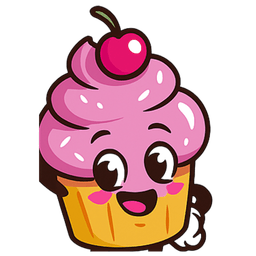
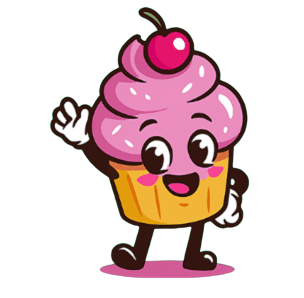
Mostrar el mapa del local en el catálogo y en el checkout
El catálogo (con o sin filtro de categoría) suma la misma sección de
retiro que la home. En el checkout, debajo de la elección entre envío y
retiro, aparece una versión compacta del mapa con la dirección y "Cómo
llegar", para decidir con la ubicación a la vista.

diff --git a/src/components/shop/pickup-map.tsx b/src/components/shop/pickup-map.tsx
@@ -17,32 +17,37 @@ function mapUrls() {
   };
 }
 
+// Enlace estándar de Google Maps (sin clave): abre el recorrido desde donde
+// esté la persona. Usa la dirección de Configuración.
+function directionsUrl(address: string) {
+  return `https://www.google.com/maps/dir/?api=1&destination=${encodeURIComponent(address)}`;
+}
+
+function MapFrame({ className }: { className: string }) {
+  return (
+    <div className={`relative overflow-hidden bg-sand ${className}`}>
+      <iframe
+        title="Mapa con la ubicación del local de Dulces Juliana"
+        src={mapUrls().embed}
+        loading="lazy"
+        referrerPolicy="no-referrer-when-downgrade"
+        className="absolute inset-0 h-full w-full border-0 [filter:saturate(0.85)_sepia(0.12)]"
+      />
+    </div>
+  );
+}
+
 export function PickupMap({
   settings,
 }: {
   settings: { shippingCost: number; freeShippingFrom: number; pickupAddress: string };
 }) {
-  const urls = mapUrls();
-  // Enlace estándar de Google Maps (sin clave): abre el recorrido desde donde
-  // esté la persona. Usa la dirección de Configuración.
-  const directions = `https://www.google.com/maps/dir/?api=1&destination=${encodeURIComponent(
-    settings.pickupAddress,
-  )}`;
-
   return (
     <section
       aria-labelledby="retiro-titulo"
       className="grid items-stretch gap-5 md:grid-cols-[1.4fr_1fr]"
     >
-      <div className="relative h-72 overflow-hidden rounded-card bg-sand shadow-soft md:h-auto md:min-h-[360px]">
-        <iframe
-          title="Mapa con la ubicación del local de Dulces Juliana"
-          src={urls.embed}
-          loading="lazy"
-          referrerPolicy="no-referrer-when-downgrade"
-          className="absolute inset-0 h-full w-full border-0 [filter:saturate(0.85)_sepia(0.12)]"
-        />
-      </div>
+      <MapFrame className="h-72 rounded-card shadow-soft md:h-auto md:min-h-[360px]" />
 
       <div className="flex flex-col rounded-card bg-surface p-6 sm:p-7">
         <span className={`${badgeClass("blush")} w-max`}>Retiro sin cargo</span>
@@ -75,7 +80,7 @@ export function PickupMap({
 
         <div className="mt-6 flex flex-wrap items-center gap-3 md:mt-auto md:pt-6">
           <a
-            href={directions}
+            href={directionsUrl(settings.pickupAddress)}
             target="_blank"
             rel="noopener noreferrer"
             className={buttonClass("primary", "md")}
@@ -83,7 +88,7 @@ export function PickupMap({
             Cómo llegar
           </a>
           <a
-            href={urls.full}
+            href={mapUrls().full}
             target="_blank"
             rel="noopener noreferrer"
             className="text-sm text-berry hover:underline"
@@ -93,5 +98,30 @@ export function PickupMap({
         </div>
       </div>
     </section>
+  );
+}
+
+// Versión chica para el checkout, debajo de la elección entre envío y retiro.
+export function PickupMapCompact({ pickupAddress }: { pickupAddress: string }) {
+  return (
+    <div className="mt-4 overflow-hidden rounded-[20px] bg-surface">
+      <MapFrame className="h-48" />
+      <div className="flex flex-wrap items-center justify-between gap-3 px-4 py-3">
+        <p className="flex items-start gap-2 text-[13.5px] text-ink">
+          <MapPinIcon className="mt-0.5 h-4 w-4 shrink-0 text-pink-deep" />
+          <span>
+            <span className="font-medium">Local para retirar:</span> {pickupAddress}
+          </span>
+        </p>
+        <a
+          href={directionsUrl(pickupAddress)}
+          target="_blank"
+          rel="noopener noreferrer"
+          className="text-[13.5px] font-medium text-berry hover:underline"
+        >
+          Cómo llegar
+        </a>
+      </div>
+    </div>
   );
 }

diff --git a/src/app/(shop)/productos/page.tsx b/src/app/(shop)/productos/page.tsx
@@ -3,7 +3,9 @@ import {
   getCategoriesWithProducts,
   getProducts,
 } from "@/lib/services/product-service";
+import { getStoreSettings } from "@/lib/services/settings-service";
 import { ProductCard } from "@/components/shop/product-card";
+import { PickupMap } from "@/components/shop/pickup-map";
 import { CategoryChips } from "@/components/shop/category-chips";
 import { productGridClass } from "@/components/ui/styles";
 
@@ -15,9 +17,10 @@ export default async function ProductosPage({
   const { categoria } = await searchParams;
   const categorySlug = typeof categoria === "string" ? categoria : undefined;
 
-  const [categories, products] = await Promise.all([
+  const [categories, products, settings] = await Promise.all([
     getCategoriesWithProducts(),
     getProducts({ categorySlug }),
+    getStoreSettings(),
   ]);
 
   const activeCategory = categories.find((c) => c.slug === categorySlug);
@@ -45,6 +48,10 @@ export default async function ProductosPage({
           ))}
         </div>
       )}
+
+      <div className="mt-12">
+        <PickupMap settings={settings} />
+      </div>
     </div>
   );
 }

diff --git a/src/components/shop/checkout-form.tsx b/src/components/shop/checkout-form.tsx
@@ -6,6 +6,7 @@ import { calculateTotals, type DeliveryMethod } from "@/lib/pricing";
 import { formatPrice } from "@/lib/format";
 import { buttonClass, inputClass } from "@/components/ui/styles";
 import { LockIcon } from "./icons";
+import { PickupMapCompact } from "./pickup-map";
 
 export type CheckoutLine = {
   variantId: string;
@@ -86,6 +87,7 @@ export function CheckoutForm(props: CheckoutFormProps) {
             })}
           </div>
           <FieldError messages={state?.errors?.deliveryMethod} />
+          <PickupMapCompact pickupAddress={props.pickupAddress} />
         </fieldset>
 
         <fieldset className="space-y-4">
